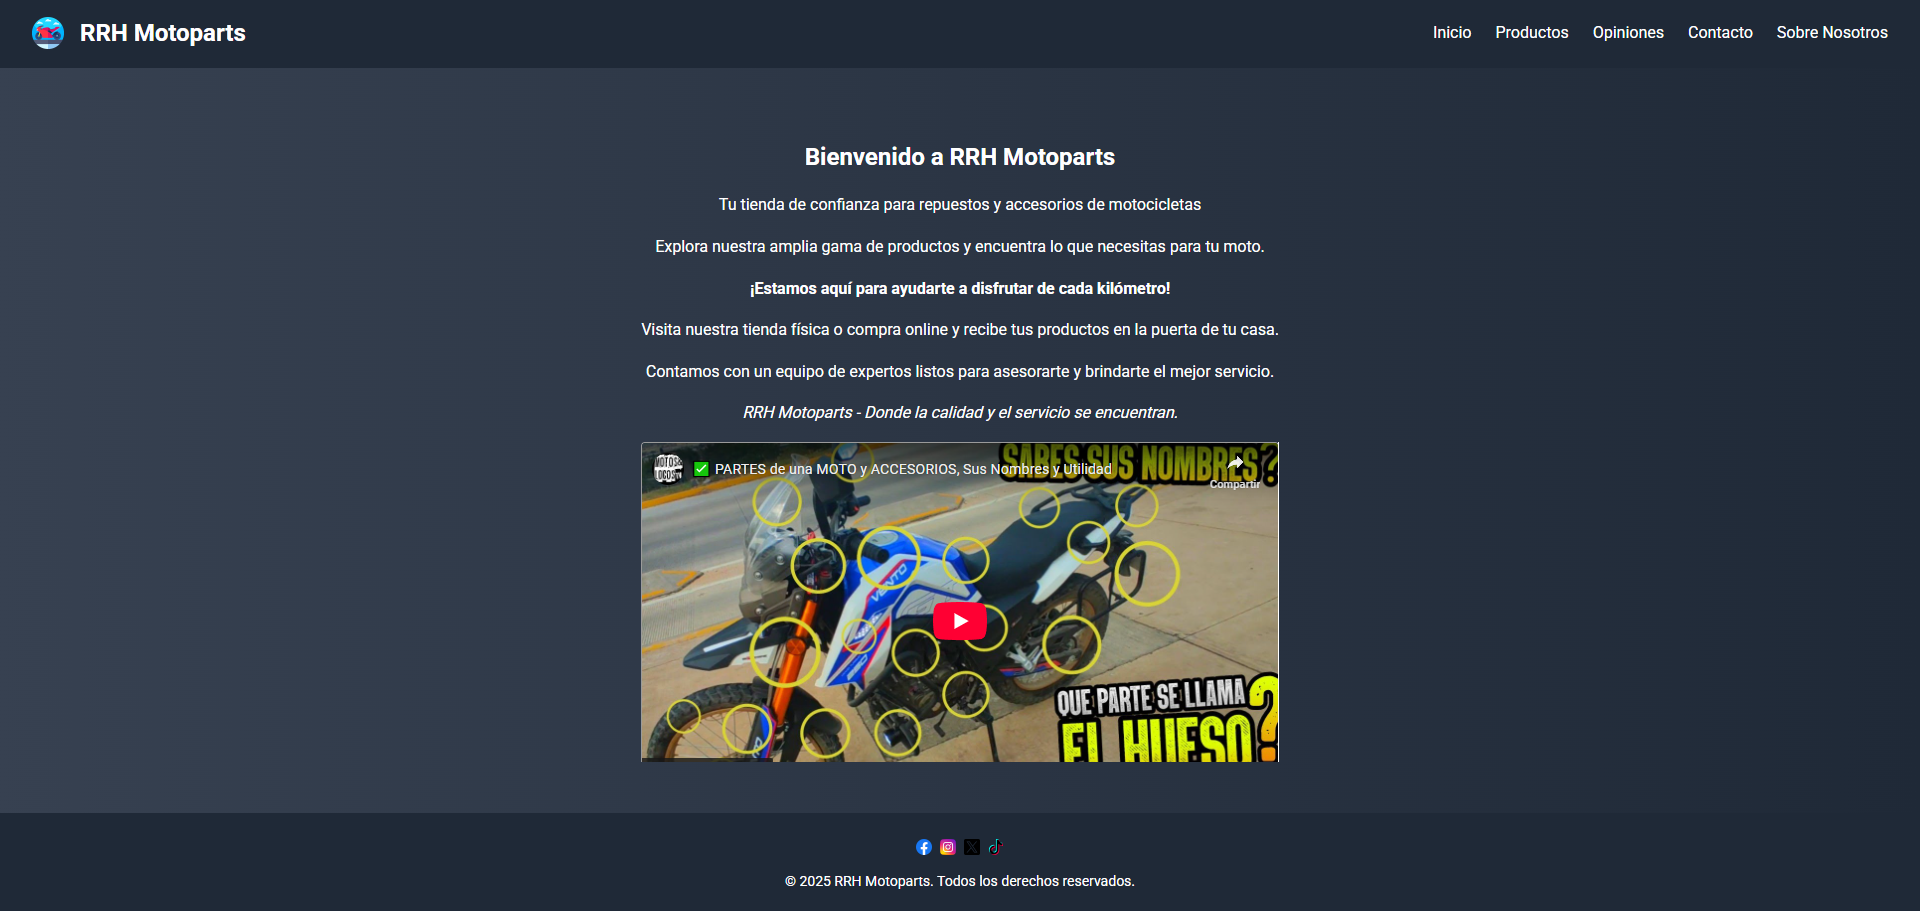
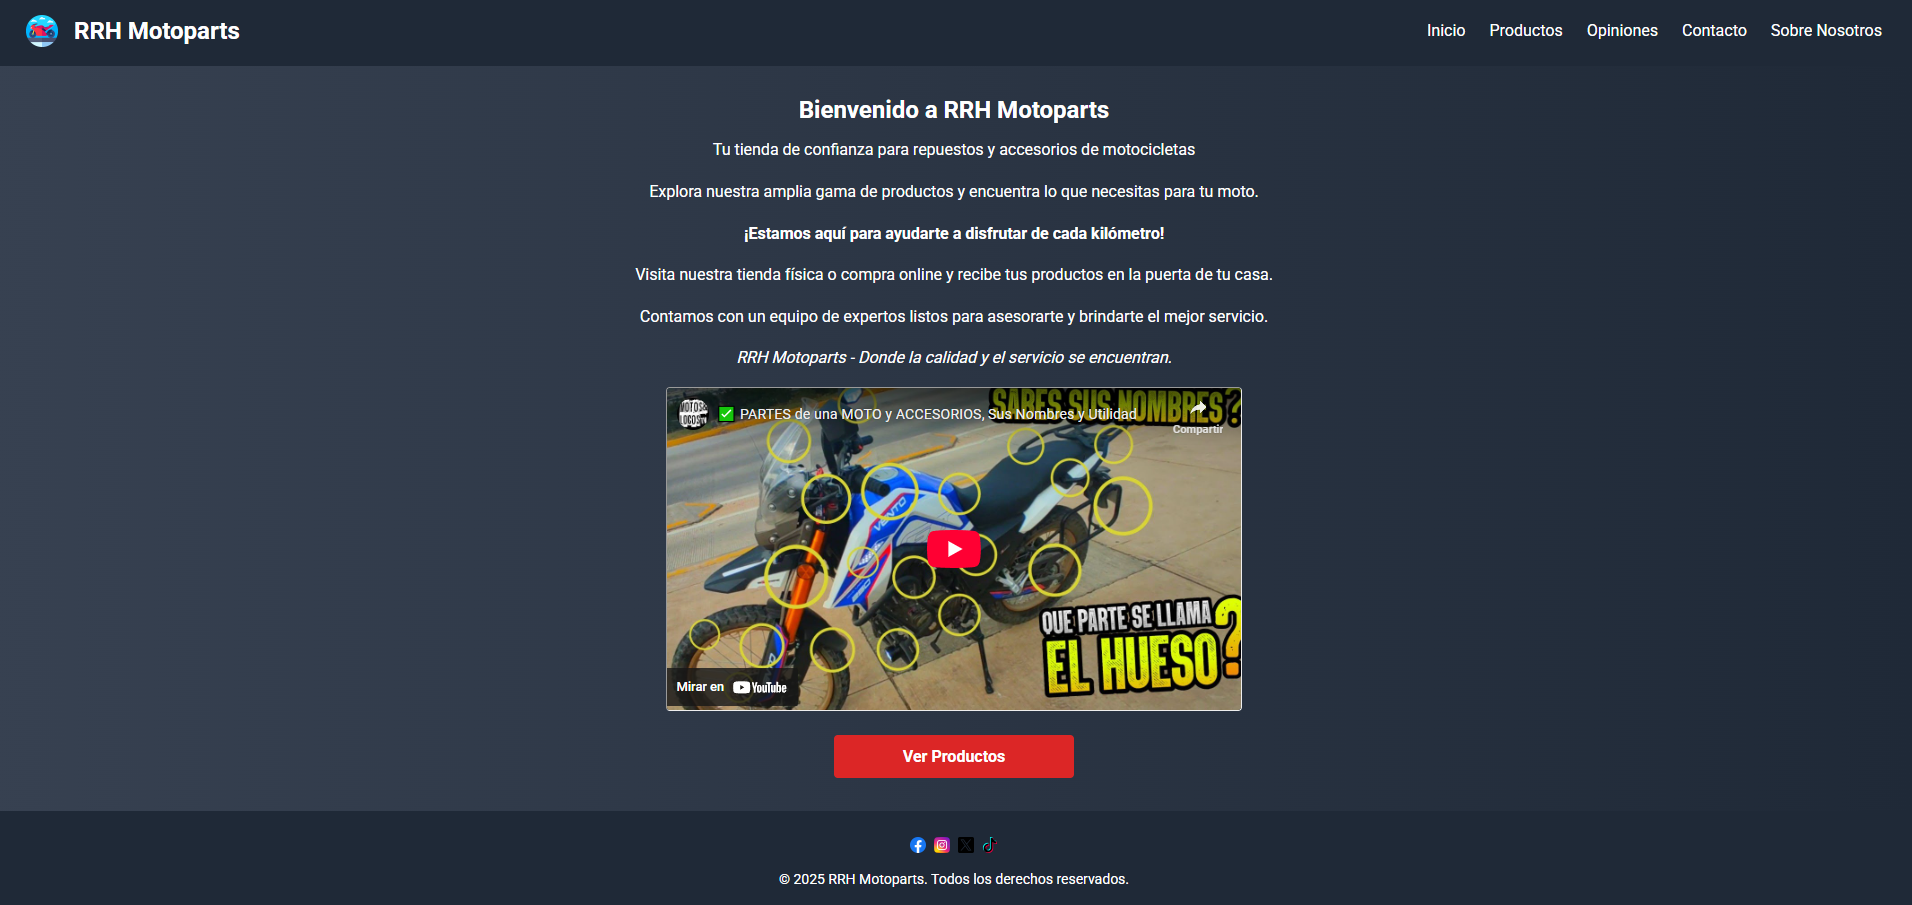
arreglo del index

diff --git a/css/styles.css b/css/styles.css
@@ -108,12 +108,12 @@ header {
     flex: 1 0 auto; /* Ocupa el espacio disponible sin desbordar */
     background: linear-gradient(to right, #374151, #1f2937);
     color: var(--text-light);
-    padding: 1rem;
+    padding: 0.5rem; /* Reducimos padding para ahorrar espacio */
     display: flex;
     flex-direction: column;
     align-items: center;
     justify-content: center; /* Centra el contenido verticalmente */
-    overflow: hidden; /* Evita desplazamiento si el contenido desborda */
+    overflow: hidden; /* Evita desplazamiento */
 }
 
 /* Index */
@@ -121,19 +121,29 @@ header {
     display: flex;
     flex-direction: column;
     align-items: center;
-    gap: 1rem;
+    gap: 0.5rem; /* Reducimos gap para ahorrar espacio */
     text-align: center;
-    padding-top: 1%;
-    max-height: 70vh; /* Limita la altura al 70% de la ventana */
+    padding-top: 0.5rem;
+    max-height: 80vh; /* Aumentamos a 80vh para dar más espacio al video y botón */
+    width: 100%;
     overflow: hidden; /* Oculta contenido que desborde */
+}
+
+.inicio-container h2 {
+    font-size: 1.5rem; /* Reducimos el tamaño del título */
+}
+
+.inicio-container p {
+    font-size: 1rem; /* Reducimos el tamaño del texto */
+    margin-bottom: 0.5rem;
 }
 
 .inicio-video {
     width: 100%;
-    max-width: 40vw;
+    max-width: 30vw; /* Reducimos el ancho máximo para que encaje mejor */
     aspect-ratio: 16/9;
     border-radius: 0.25rem;
-    max-height: 50vh; /* Reduce la altura máxima del video */
+    max-height: 40vh; /* Reducimos la altura máxima del video para que quepa */
 }
 
 /* Productos */
@@ -397,5 +407,10 @@ textarea:focus {
 
     .nav-links.active {
         display: flex;
+    }
+
+    .inicio-video {
+        max-width: 80vw; /* Aumentamos el ancho en móviles para mejor visibilidad */
+        max-height: 30vh; /* Reducimos la altura para que quepa */
     }
 }
